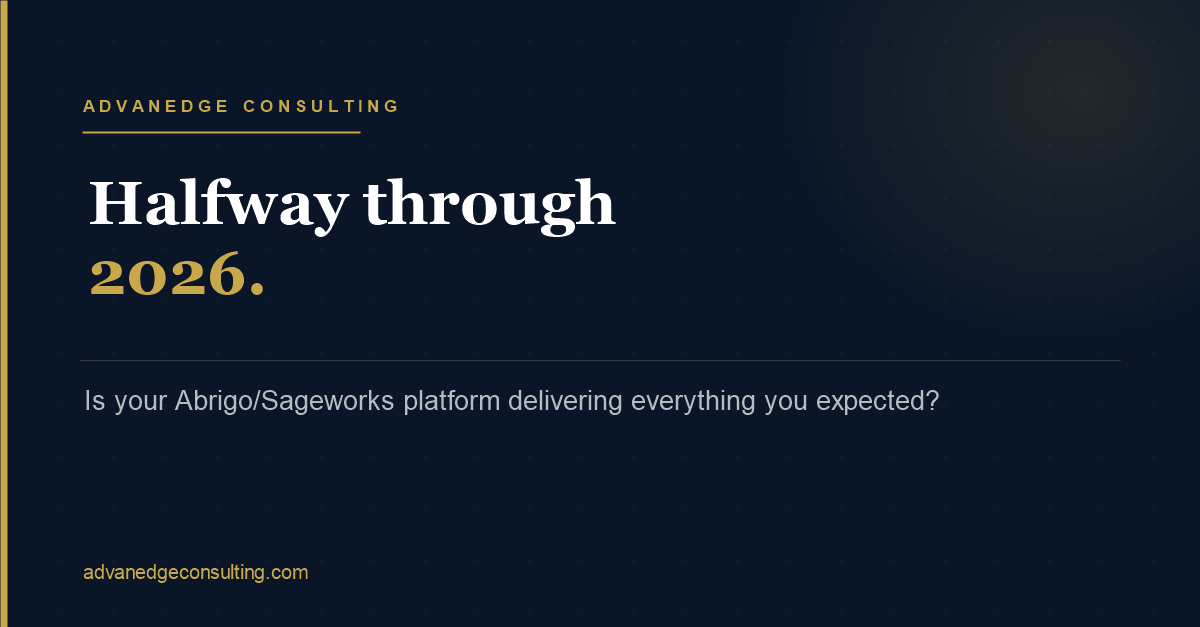
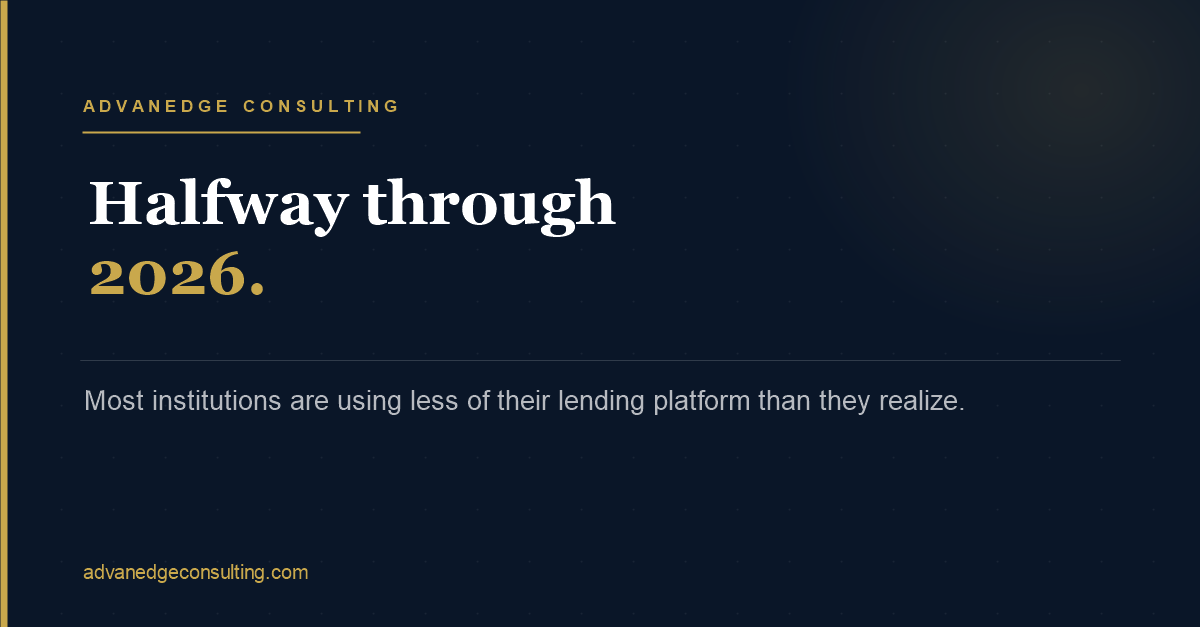
Reframe Tue June 23 fintech post and image to opportunity framing
Replaces 'is your platform delivering what you expected' with capability/usage framing — partner-safe, no implication Abrigo underdelivers.

Changed region(s): [[0.0617, 0.6061, 0.8017, 0.6667]]

diff --git a/LINKEDIN-POSTS.md b/LINKEDIN-POSTS.md
@@ -96,7 +96,7 @@ Article in comments ↓
 
 We're almost halfway through 2026.
 
-For community banks and credit unions, that makes now the right time to ask one question: is your Abrigo/Sageworks platform delivering everything you expected when you bought it?
+For community banks and credit unions, that makes it the natural moment to take a fresh look at your lending operations — because most institutions are sitting on more capability than they're currently using.
 
 The institutions getting the most out of theirs this year share something in common — they stopped treating modernization as a one-time IT project and started treating it as an operational priority. Workflows get revisited. Integrations get tightened. AI moves from conversation to deployment.
 
